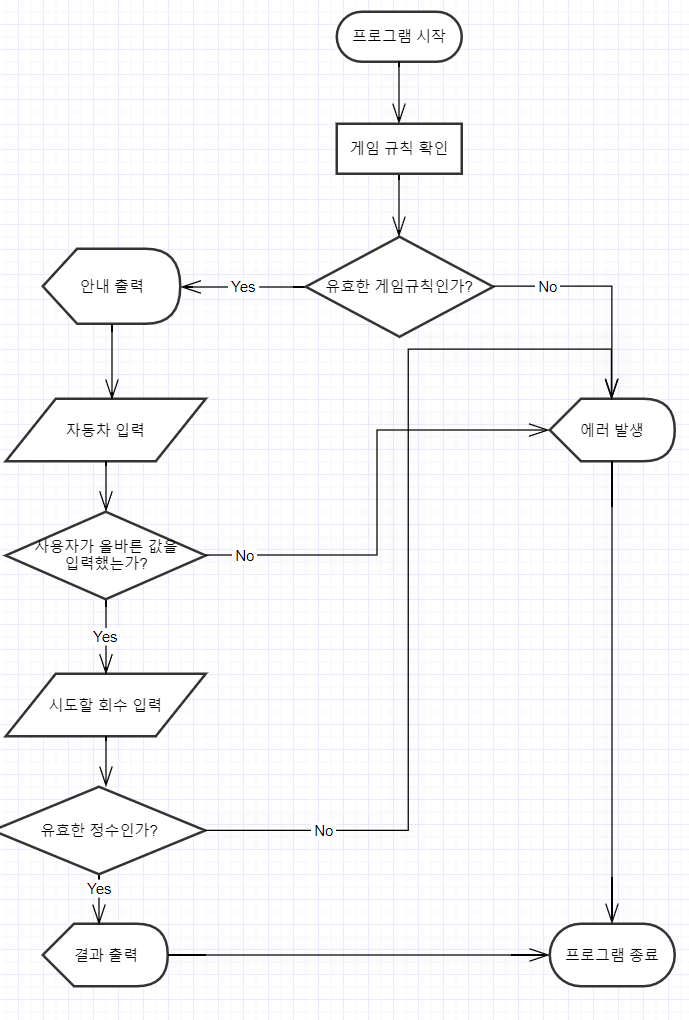
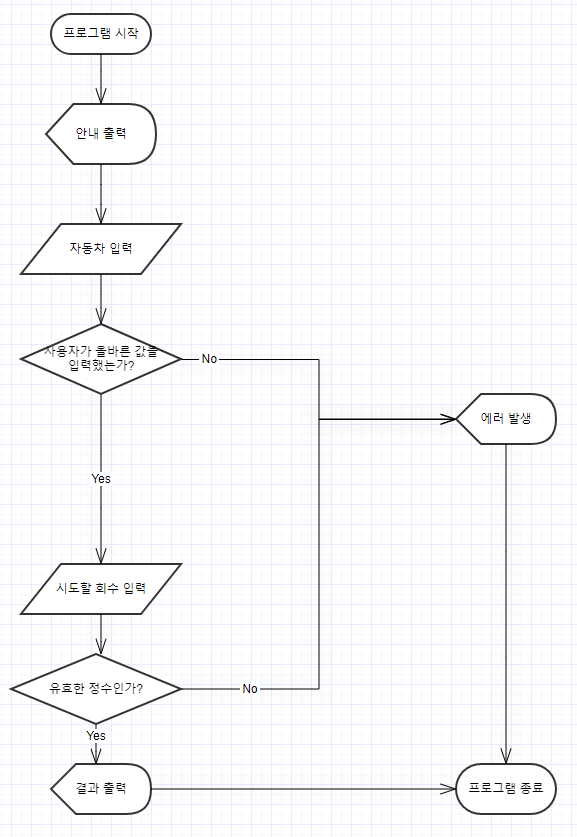
docs : README 수정
변경사항 반영

diff --git a/docs/README.md b/docs/README.md
@@ -1,98 +1,130 @@
 # 구현 기능 목록
+
 ## 목차
+
 - [기능](#기능)
 - [플로우 차트](#플로우-차트)
 - [프로젝트 구조](#프로젝트-구조)
 - [예외](#예외)
-- [고려할 경우](#고려할-경우)
 - [요구 사항](#요구-사항)
 - [권장 사항](#권장-사항)
 - [출력 예시](#출력-예시)
 - [테스트 결과](#테스트-결과)
+
 ## 기능
+
 - 경주 자동차 입력 기능
 - 시도 횟수 입력 기능
 - 무작위 값 생성 기능
 - 전진 조건 판별 기능
 - 전진 자동차 출력 기능
 - 우승자 출력 기능
+
 ## 플로우 차트
+
 ![플로우 차트](flowchart.png)
+
 ## 프로젝트 구조
+
 - src
     - main
         - java
             - racingcar
                 - Application.java : 프로그램 실행 엔트리포인트
-                - config
-                    - Config.java : 게임 설정을 정의한 클래스
                 - controller
+                    - GameController.java : 컨트롤러
                 - domain
-                - service
+                    - Attempts.java : 시도할 횟수를 포장한 객체
+                    - Car.java : 자동차를 포장한 객체
+                    - CarName.java : 자동차의 이름을 포장한 객체
+                    - CarPosition.java : 자동차의 위치를 포장한 객체
+                    - Cars.java : 자동차를 포장한 객체의 List를 갖는 일급컬렉션
                 - util
+                    - Generator.java : 숫자생성 인터페이스
+                    - Parser.java : 파싱을 처리하는 유틸클래스
+                    - RandomNumberGenerator.java : 숫자생성 인터페이스를 구현한 랜덤한 숫자를 생성하는 유틸클래스
+                    - Separator.java : 글자를 분할하는 유틸클래스
                 - view
-                    - InputView.java : input을 담당하는 뷰
-                    - OutputView.java : output을 담당하는 뷰
+                    - InputView.java : userinput을 처리하는 뷰
     - test
         - java
-            - baseball
+            - generator
+                - NumberGenerator.java : 숫자생성 인터페이스를 구현한 특정한 숫자를 생성하는 테스트용 클래스
+            - racingcar
                 - ApplicationTest.java
+                - domain
+                    - AttemptsTest.java : Attempts 테스트클래스
+                    - CarNameTest.java : CarName 테스트클래스
+                    - CarPositionTest.java : CarPosition 테스트클래스
+                    - CarsTest.java : Cars 테스트클래스
+                    - CarTest.java : Car 테스트클래스
+            - util
+                - NumberGeneratorTest.java : RandomNumberGenerator 테스트 클래스
+                - ParserTest.java : Parser 테스트 클래스
+                - SeparatorTest.java : Separator 테스트 클래스
+            - study
+                - StringTest.java
+
 ## 예외
+
 1. 자동차 이름을 입력할 때
-   * 쉼표가 존재하지 않을 경우 (== 경주할 자동차가 하나일 경우)
-   * 쉼표만 존재할 경우
-   * 이름이 6자 이상일 경우
+    * 쉼표가 존재하지 않을 경우 (== 경주할 자동차가 하나일 경우)
+    * 쉼표만 존재할 경우
+    * 이름이 6자 이상일 경우
 2. 시도할 회수를 입력할 때
-   * 문자열을 입력한 경우
-   * 음수, 0을 입력한 경우
-   * 매우 큰 수를 입력한 경우
-3. 자동차를 전진시킬 때
-   * 무작위 값이 3이하일 경우
-### 고려할 경우
-1. 우승자가 없을 경우의 처리
-2. 자동차 이름을 입력하고 쉼표를 찍었을때 띄어쓰기가 포함된 경우
-3. 최대 참여 자동차 제한 여부
+    * 문자열을 입력한 경우
+    * 음수, 0을 입력한 경우
+    * 매우 큰 수를 입력한 경우
+
 ## 요구 사항
+
 1. indent(인덴트, 들여쓰기) depth를 3이 넘지 않도록 구현한다. 2까지만 허용한다
 2. 3항 연산자를 쓰지 않는다.
 3. 함수(또는 메서드)가 한 가지 일만 하도록 최대한 작게 만들어라.
 4. JUnit 5와 AssertJ를 이용하여 본인이 정리한 기능 목록이 정상 동작함을 테스트 코드로 확인한다
 6. 삼항연산자를 사용하지 않는다.
 7. JDK에서 제공하는 Random 및 Scanner API 대신 camp.nextstep.edu.missionutils에서 제공하는 Randoms 및 Console API를 사용하여 구현해야 한다.
+
 ### 권장 사항
+
 1. else 예약어를 쓰지않는다.
 2. 모든 원시값과 문자열을 포장한다.
 3. 한 줄에 점 하나만 찍는다.
 4. 클래스는 3개이상의 인스턴스 변수를 가지지않게한다
 5. 일급컬렉션을 사용한다
+
 ## 출력 예시
+
+```java
+경주할 자동차 이름을 입력하세요.(이름은 쉼표(,)기준으로 구분)
+        pobi,woni,jun
+        시도할 회수는 몇회인가요?
+        5
+
+        실행 결과
+        pobi:-
+        woni:
+        jun:-
+
+        pobi:--
+        woni:-
+        jun:--
+
+        pobi:---
+        woni:--
+        jun:---
+
+        pobi:----
+        woni:---
+        jun:----
+
+        pobi:-----
+        woni:----
+        jun:-----
+
+        최종 우승자:pobi,jun
 ```
-경주할 자동차 이름을 입력하세요.(이름은 쉼표(,) 기준으로 구분)
-pobi,woni,jun
-시도할 회수는 몇회인가요?
-5
 
-실행 결과
-pobi : -
-woni : 
-jun : -
-
-pobi : --
-woni : -
-jun : --
-
-pobi : ---
-woni : --
-jun : ---
-
-pobi : ----
-woni : ---
-jun : ----
-
-pobi : -----
-woni : ----
-jun : -----
-
-최종 우승자 : pobi, jun
-```
 ## 테스트 결과
+
+![img.png](img.png)
